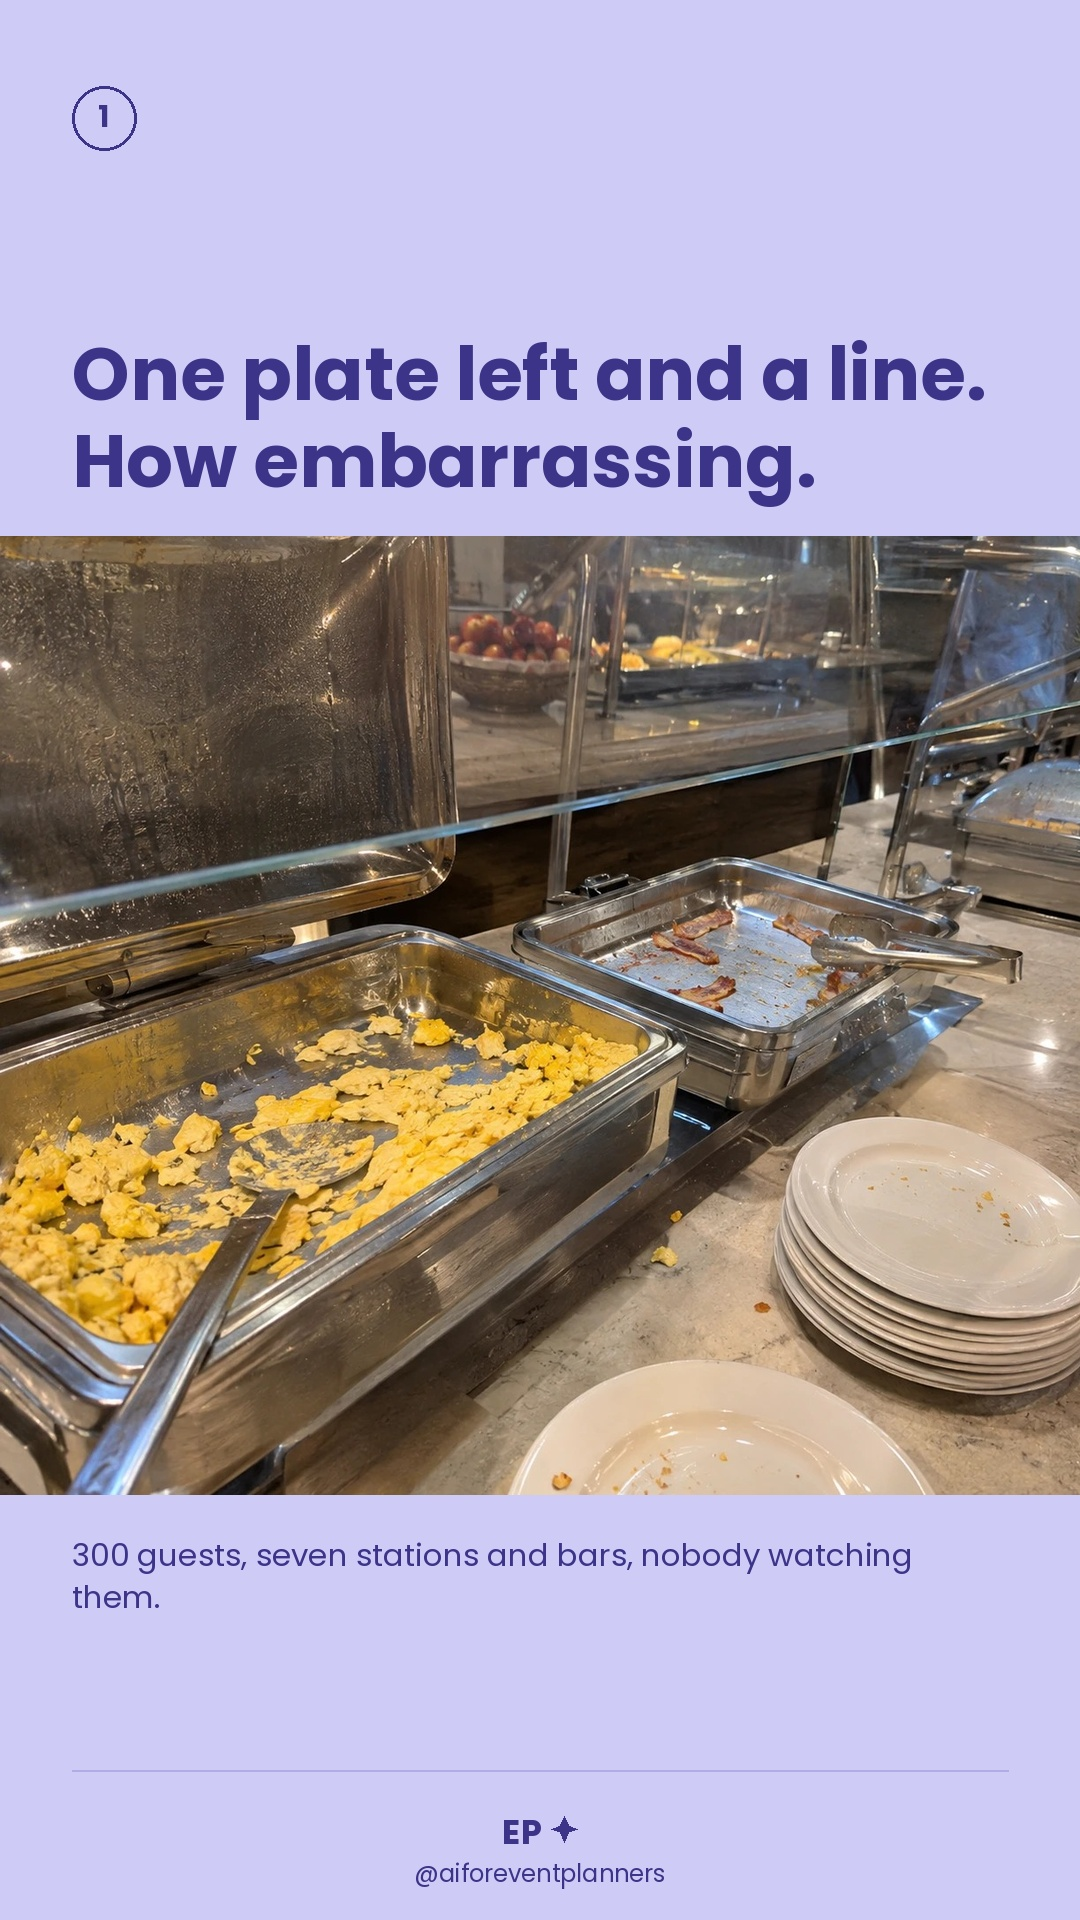
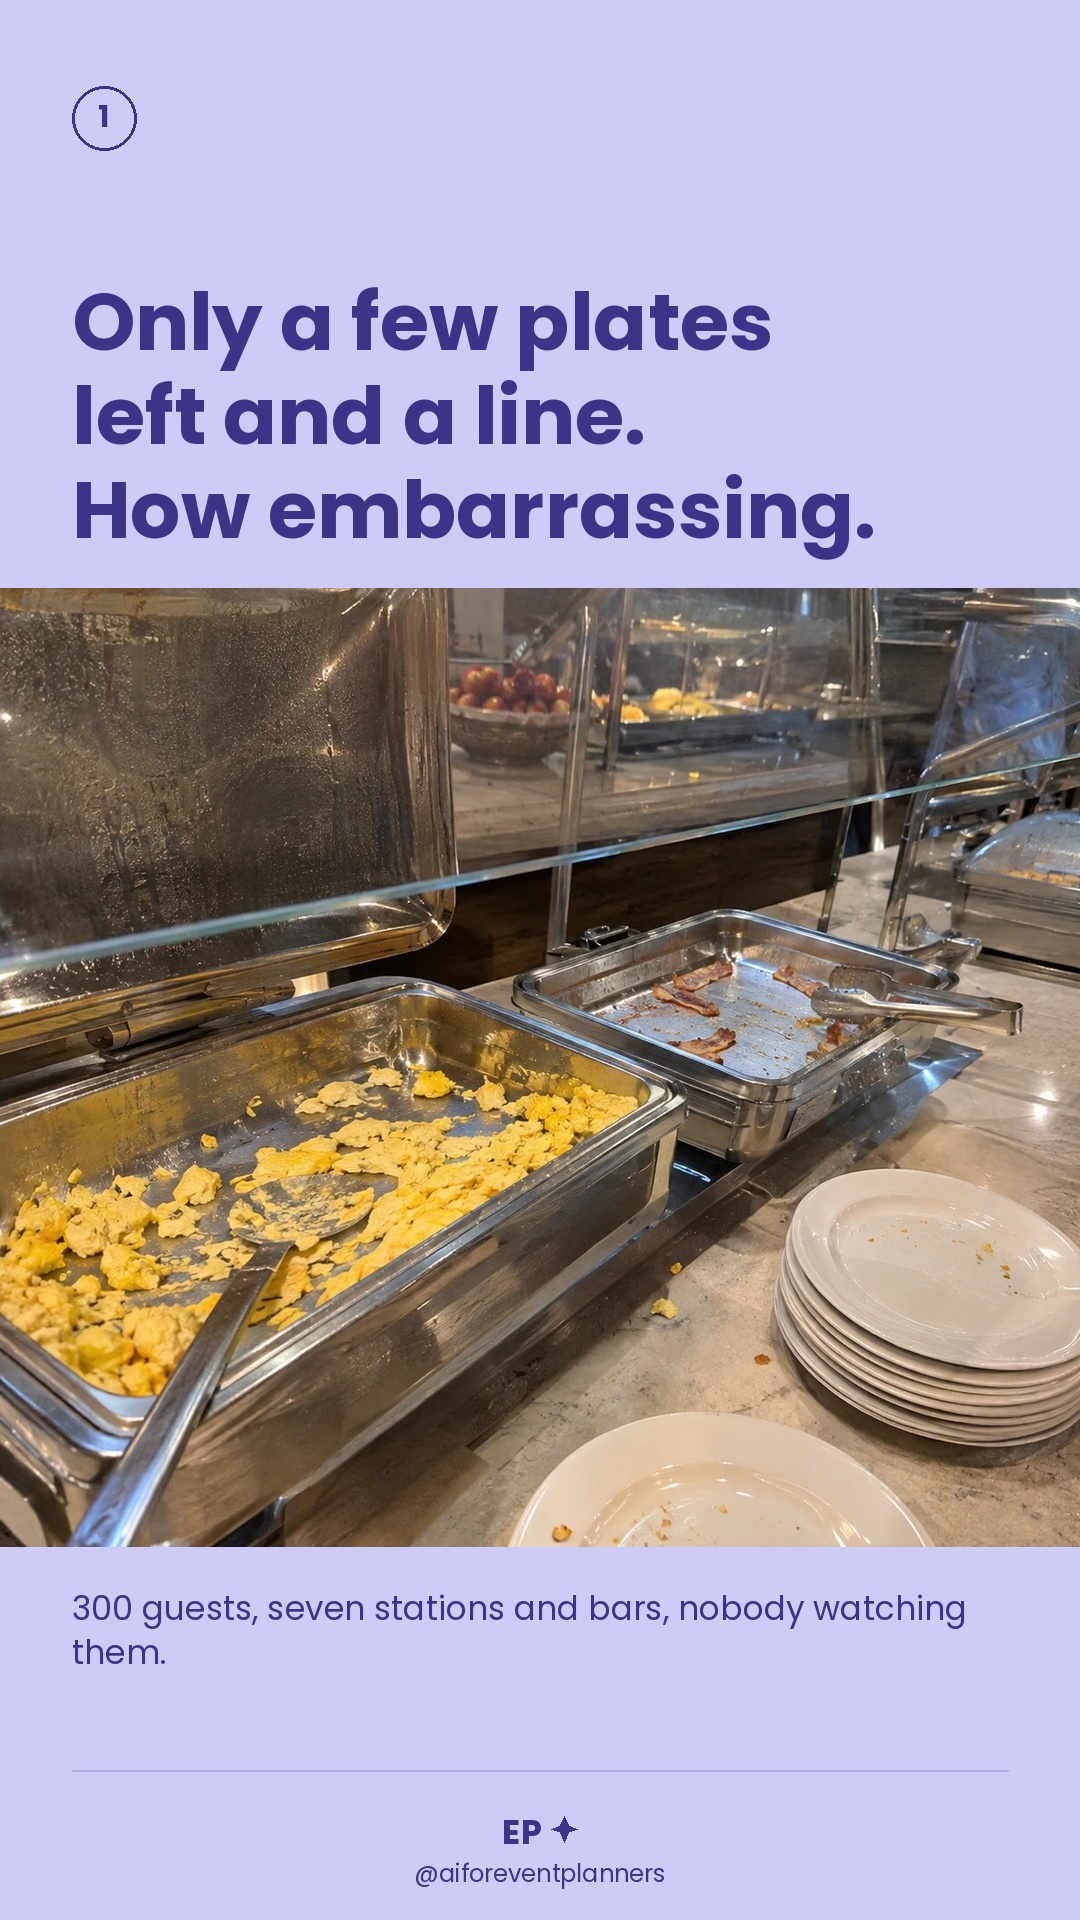
Slide 1 says what the photo shows
Her note: "the first slide has more than one plate. say only a few plates
left". The guide wrote "One plate left and a line" long before there was a
photo, and the photo has a stack of clean plates in it.

The overlay is now "Only a few plates left and a line. How embarrassing.",
the caption's first line follows, and the guide's three mentions were replaced
in one pass. check() asserts the old wording cannot come back.

Claude-Session: https://claude.ai/code/session_01HKX4LcxS3og4W8QFWqNVPj

diff --git a/carousels/2026-11-22-one-plate-left/make_slides.py b/carousels/2026-11-22-one-plate-left/make_slides.py
@@ -100,7 +100,10 @@ FLAG_SUB = "Longer than the 30 minutes between waves, so call those two in befor
 
 SLIDES = [
     dict(n=1, photo=True,
-         head="One plate left and a line.\nHow embarrassing.",
+         # "say only a few plates left" — her note, Nov 19, looking at the
+         # photo: there is a stack of clean plates in it, so "one plate left"
+         # described a picture nobody can see.
+         head="Only a few plates\nleft and a line.\nHow embarrassing.",
          sub="300 guests, seven stations and bars, nobody watching them."),
 
     dict(n=2, head="Every event needs\na food and beverage\ncaptain.",
@@ -389,6 +392,9 @@ def check():
     assert len(SLIDES) == 6, len(SLIDES)
     assert [x["n"] for x in SLIDES] == [1, 2, 3, 4, 5, 6]
     assert SLIDES[3]["quote"] == PROMPT
+    # The overlay has to match the photo: it shows a stack of plates.
+    assert "a few plates left" in SLIDES[0]["head"].replace("\n", " ")
+    assert "One plate left" not in SLIDES[0]["head"]
     assert os.path.exists(PHOTO), f"her photo is not at {PHOTO}"
     # The crop has to take the right-hand strip off, or the figure is back.
     assert CROP[2] <= 0.85, "the crop must remove the right-hand strip"

diff --git a/carousels/2026-11-22-one-plate-left/README.md b/carousels/2026-11-22-one-plate-left/README.md
@@ -1,4 +1,11 @@
-# Sun 22 Nov, 6:30pm — "One plate left and a line. How embarrassing."
+# Sun 22 Nov, 6:30pm — "Only a few plates left and a line. How embarrassing."
+
+**The headline changed when she saw the photo** (Nov 19: "the first slide has
+more than one plate. say only a few plates left"). The guide had written "One
+plate left" months before anyone had a picture, and the picture has a stack of
+clean plates in it. The overlay, the caption's first line and all three
+mentions in the guide now say "Only a few plates left"; `check()` asserts the
+old wording cannot come back.
 
 Six slides, content bank 38, third in the conference catering series after
 runny eggs and dry sandwiches. One set at 1080x1920: a slide Reel for
